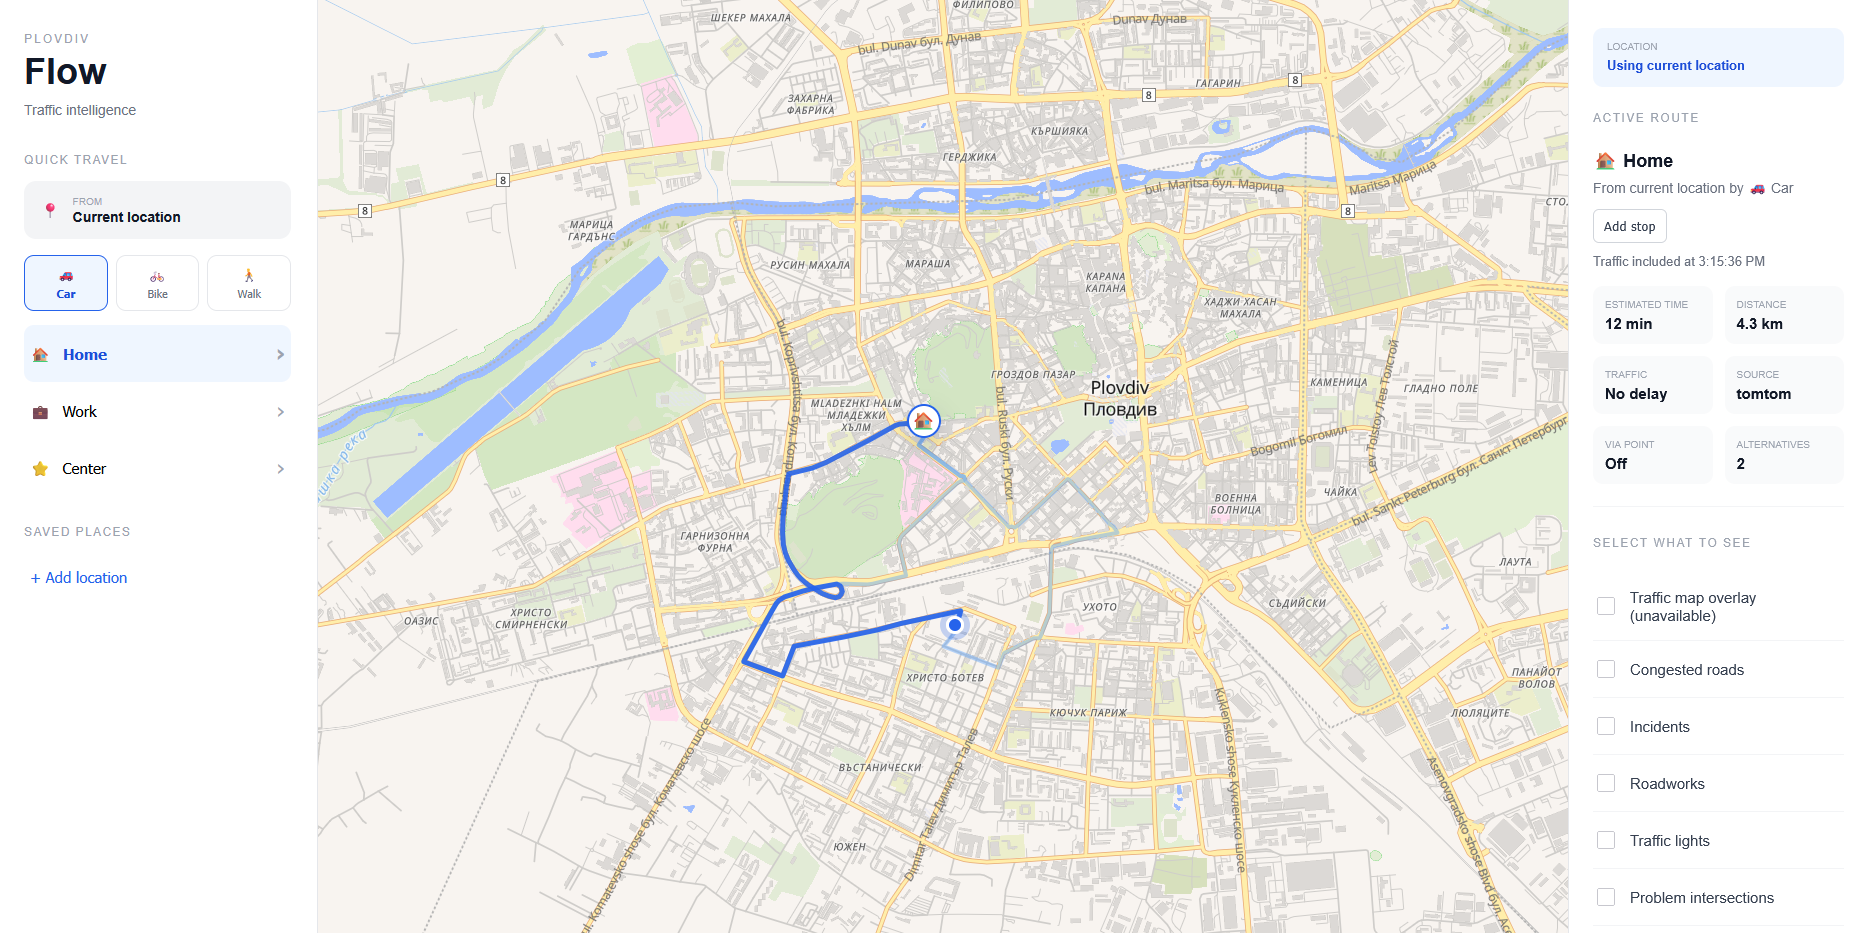
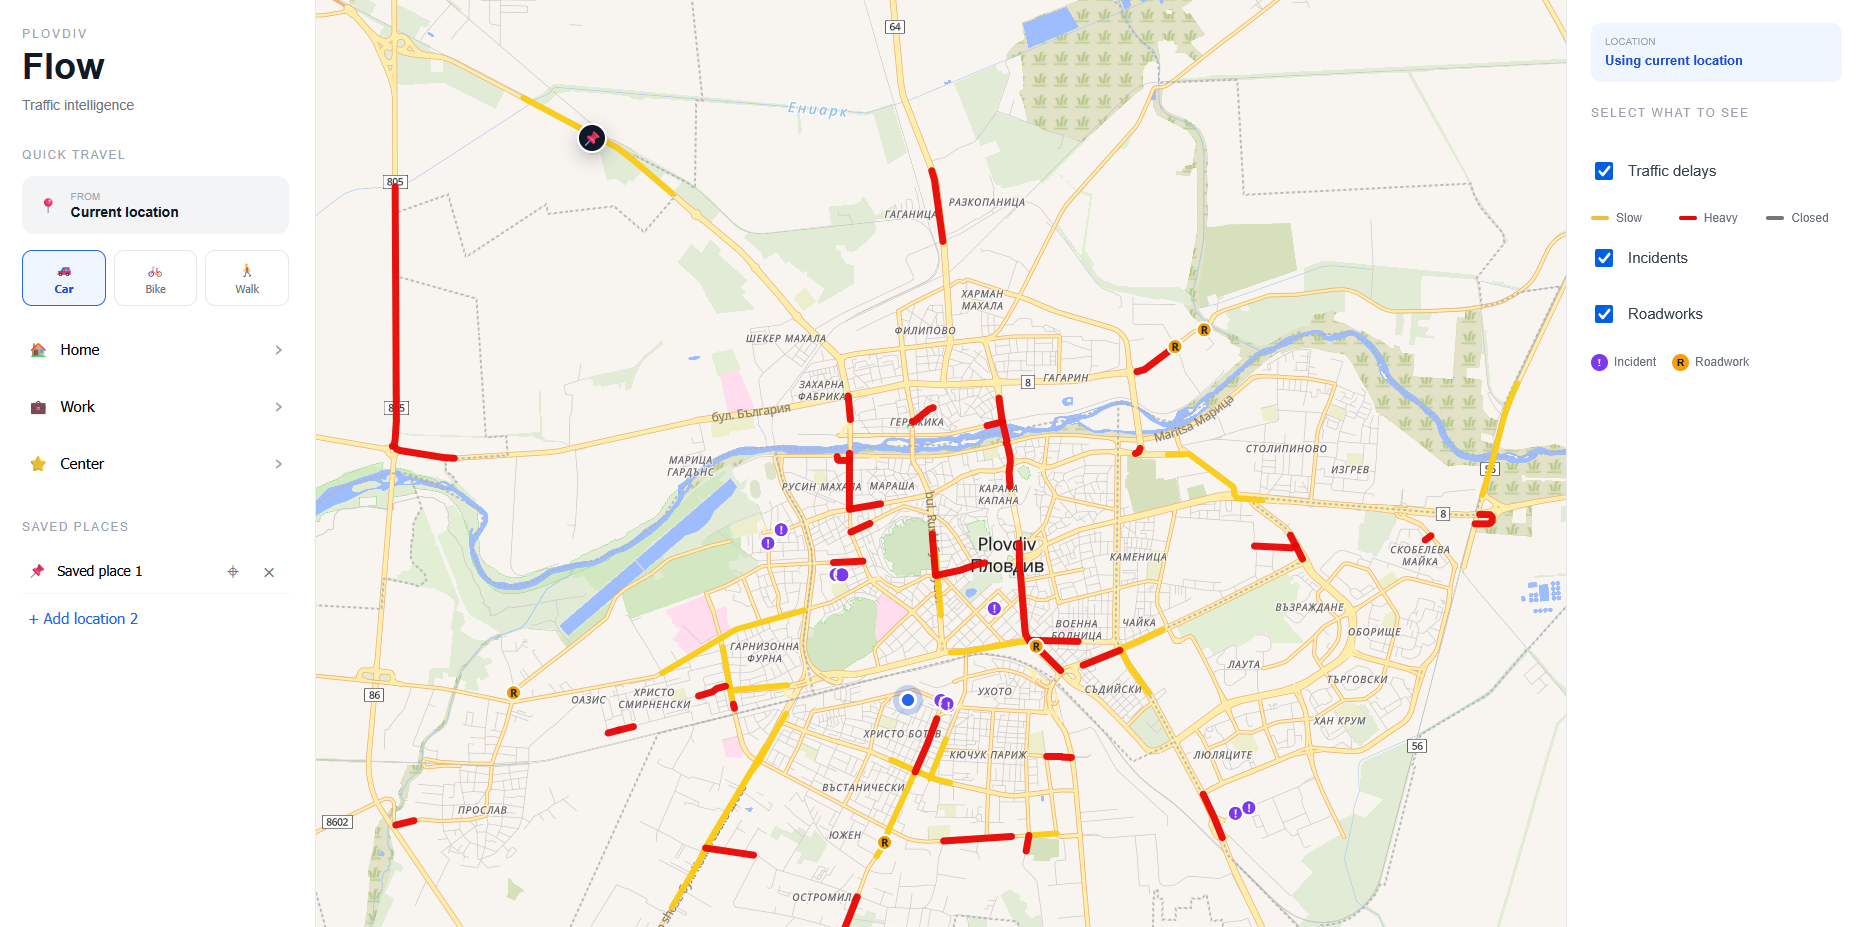
Updated Preview Image

diff --git a/frontend/src/components/RightSidebar.vue b/frontend/src/components/RightSidebar.vue
@@ -53,17 +53,17 @@ function formatEstimatedTime(route, travelMode) {
     return `${route.durationInMinutes} min`
   }
 
-  const currentSeconds = route.durationInMinutes * 60
-  const times = [
-    route.traffic.noTrafficTravelTimeInSeconds,
-    route.traffic.historicTrafficTravelTimeInSeconds,
-    route.traffic.liveTrafficTravelTimeInSeconds,
-    currentSeconds
-  ].filter((value) => Number.isFinite(value))
+  const current = route.durationInMinutes
+  const clear = route.traffic.noTrafficTravelTimeInSeconds / 60
+  const usual = route.traffic.historicTrafficTravelTimeInSeconds / 60
+  const live = route.traffic.liveTrafficTravelTimeInSeconds / 60
+  const estimates = [current, usual, live].filter((value) => Number.isFinite(value))
 
-  if (!times.length) return `${route.durationInMinutes} min`
-  const minimum = Math.max(1, Math.floor(Math.min(...times) / 60))
-  const maximum = Math.max(minimum, Math.ceil(Math.max(...times) / 60))
+  if (!Number.isFinite(clear) || !estimates.length) return `${current} min`
+
+  const trafficDifference = Math.max(1, ...estimates.map((value) => value - clear))
+  const minimum = Math.max(1, Math.floor(Math.min(...estimates) - trafficDifference * (2 / 3)))
+  const maximum = Math.max(minimum, Math.ceil(Math.max(...estimates) + trafficDifference * 2))
   return minimum === maximum ? `${maximum} min` : `${minimum}–${maximum} min`
 }
 </script>
@@ -93,11 +93,11 @@ function formatEstimatedTime(route, travelMode) {
         {{ activeRoute.traffic?.status === 'live' ? 'Traffic included at ' + new Date(activeRoute.traffic.updatedAt).toLocaleTimeString() : activeRoute.traffic?.reason === 'daily-limit' ? 'Daily traffic limit reached. Time excludes live traffic.' : 'Time excludes live traffic.' }}
       </p>
       <p v-if="activeRoute?.traffic?.status === 'live'" class="route-hint traffic-explanation">
-        Current estimate: {{ activeRoute.durationInMinutes }} min. The range compares clear roads, usual traffic and live traffic.
+        Current estimate: {{ activeRoute.durationInMinutes }} min. The planning range adds a conservative traffic buffer.
       </p>
       <div v-if="activeRoute" class="route-meta">
         <div>
-          <small>{{ travelMode.id === 'car' ? 'ESTIMATED RANGE' : 'ESTIMATED TIME' }}</small>
+          <small>{{ travelMode.id === 'car' ? 'PLANNING RANGE' : 'ESTIMATED TIME' }}</small>
           <b>{{ formatEstimatedTime(activeRoute, travelMode) }}</b>
         </div>
         <div>
